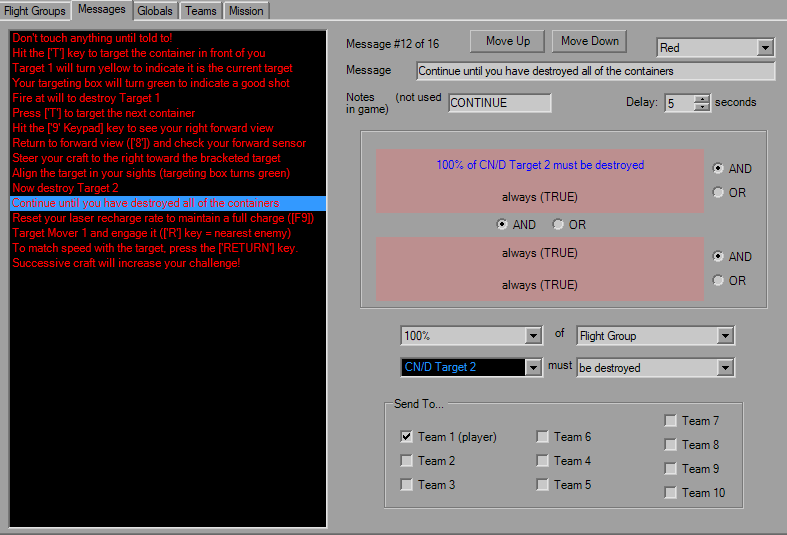
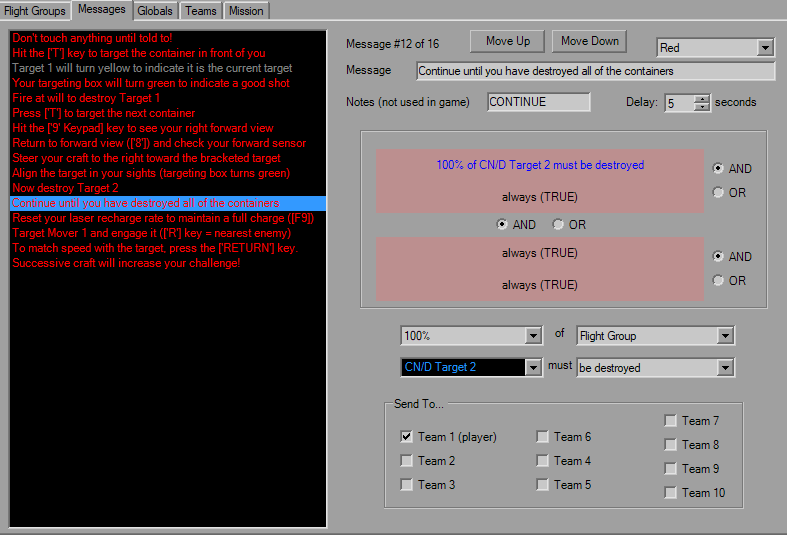
xvt help

Changed region(s): [[0.4269, 0.1495, 0.7624, 0.2093], [0.0, 0.1196, 0.3659, 0.1495]]

diff --git a/help file/pages/XvT/brief.html b/help file/pages/XvT/brief.html
@@ -5,15 +5,16 @@
 </HEAD>
 <BODY>
 <p align=center><big><h2>Briefing Dialog</h2></big></p>
-Opening the Briefing Dialog will bring you to the main Briefing Animation tab.<br>
-<p align=center><img src="../../images/XvT/Brief.png"></p>
-This is the pre-mission briefing animation that plays before you fly. It animates at 20 fps, allows you to write on it, highlight FlightGroups, as well as moving and zooming the map. FlightGroups cannot actually be animated and change position on the map, as their locations and presence are defined in the FG itself<br><br>
+<p>Opening the Briefing Dialog will bring you to the main Briefing Animation tab.</p>
 
-The XvT Briefing dialog behaves the same as TIE, although there is the cosmetic difference on the main display.  All of the events behave exactly the same, and in fact the briefing can be converted from TIE to XvT and reversed simply from copy and pasting.  The only real differences are that Unknown3 has been activated for XvT and there is a possibility of two extra events.<br><br>
+<p align=center><img src="../../images/XvT/Brief.png"></p>
+<p>This is the pre-mission briefing animation that plays before you fly. It animates at 20 fps, allows you to write on it, highlight FlightGroups, as well as moving and zooming the map. FlightGroups cannot actually be animated and change position on the map, as their locations and presence are defined in the FG itself</p>
+
+<p>The XvT Briefing dialog behaves the same as TIE, although there is the cosmetic difference on the main display.  All of the events behave exactly the same, and in fact the briefing can be converted from TIE to XvT and reversed simply from copy and pasting.  The only real differences are that Unknown3 has been activated for XvT and there is a possibility of two extra events.</p>
 
 <p align=center><img src="../../images/XvT/Brief-Teams.png"></p>
-Available since v1.3 is the "Visible to Teams" tab, which is primarily for multiplayer purposes and allows for the editing of all 8 briefings.<br><br>
+<p>Available since v1.3 is the "Visible to Teams" tab, which is primarily for multiplayer purposes and allows for the editing of all 8 briefings.</p>
 
-Remaining information can be viewed on the <a href="../TIE/brief.html">TIE Briefing Dialog</a> page.<br>
+<p>Remaining information can be viewed on the <a href="../TIE/brief.html">TIE Briefing Dialog</a> page.</p>
 </body>
 </html>

diff --git a/help file/pages/XvT/miss.html b/help file/pages/XvT/miss.html
@@ -6,9 +6,10 @@
 <BODY>
 <p align=center><big><h1>Mission Parameters</h1></big></p>
 <p align=center><img src="../../images/XvT/Miss.png"></p>
-The Mission tab sets a couple of other overall settings.  The large text boxes at the top (when available) are the mission texts for before and after the missions.<br><br>
-Below that is the Mission Type, which normally will be "Training".  Set a time limit for the mission if you wish, and below that is the option to toggle the mission between XvT and BoP.<br><br>
-There's some Unknown values that you can play with as well here, a couple of which have now been uncovered.<br><br>
-Former unknowns 0x28 and 0x50 (Unknown4 and 5 in the mission format specs) are part of the BoP IFF names added in 1.7. The former 0x65 (Unk6) is now "Prevent Mission Outcome", which prevents the mission from ending based on goals.
+<p>The Mission tab sets a couple of other overall settings.  The large text boxes at the top (when available) are the mission texts for before and after the missions.</p>
+
+<p>Below that is the Mission Type, which normally will be "Training".  Set a time limit for the mission if you wish, and below that is the option to toggle the mission between XvT and BoP.</p>
+
+<p>Unsure if <i>WinType</i> has a real effect. <i>Goals unimportant</i> prevents the mission from ending based on goals, useful for melees where you want to keep earning points. The <i>randomizer</i> value helps init backdrops and asteroids if you want to fiddle with that. It's imperitive that this value is the same for all players if engaging in multiplayer.</p>
 </body>
 </html>

diff --git a/help file/pages/XvT/team.html b/help file/pages/XvT/team.html
@@ -1,13 +1,15 @@
 <HTML>
 <HEAD>
   <link rel="stylesheet" type="text/css" href="../stylesheet.css" />
-  <title>Team, XvT</title>
+  <title>Teams, XvT</title>
 </HEAD>
 <BODY>
-<p align=center><big><h1>Team</h1></big></p>
+<p align=center><big><h1>Teams</h1></big></p>
 <p align=center><img src="../../images/XvT/team.png"></p>
-The Team tab allows you to set the names, allegiance and end of mission messages for each team.<br><br>
-Team Name is limited to 15 char, EoM Messages to 64 char.<br><br>
-There's really not a whole lot to explain here.  Click the red field to pick a team, change the settings, rejoice.
+<p>The Teams tab allows you to set the names, allegiance and end of mission messages for each team.</p>
+
+<p>Team Name is limited to 15 char, EoM Messages to 64 char.</p>
+
+<p>There's really not a whole lot to explain here.  Click the shaded field to pick a team, change the settings, rejoice.</p>
 </body>
 </html>

diff --git a/XvtForm.Designer.cs b/XvtForm.Designer.cs
@@ -4298,16 +4298,17 @@ namespace Idmr.Yogeme
 			// 
 			// label53
 			// 
-			this.label53.Location = new System.Drawing.Point(344, 72);
+			this.label53.AutoSize = true;
+			this.label53.Location = new System.Drawing.Point(344, 74);
 			this.label53.Name = "label53";
-			this.label53.Size = new System.Drawing.Size(104, 29);
+			this.label53.Size = new System.Drawing.Size(125, 13);
 			this.label53.TabIndex = 21;
-			this.label53.Text = "Notes\r\n(not used in game)";
+			this.label53.Text = "Notes (not used in game)";
 			// 
 			// txtShort
 			// 
 			this.txtShort.Enabled = false;
-			this.txtShort.Location = new System.Drawing.Point(448, 72);
+			this.txtShort.Location = new System.Drawing.Point(487, 71);
 			this.txtShort.MaxLength = 15;
 			this.txtShort.Name = "txtShort";
 			this.txtShort.Size = new System.Drawing.Size(104, 20);
@@ -4463,7 +4464,6 @@ namespace Idmr.Yogeme
 			// 
 			// numGlobalDelay
 			// 
-			this.numGlobalDelay.Enabled = false;
 			this.numGlobalDelay.Increment = new decimal(new int[] {
             5,
             0,
@@ -5101,7 +5101,6 @@ namespace Idmr.Yogeme
 			// 
 			// numEomFailedDelay
 			// 
-			this.numEomFailedDelay.Enabled = false;
 			this.numEomFailedDelay.Increment = new decimal(new int[] {
             5,
             0,
@@ -5200,7 +5199,6 @@ namespace Idmr.Yogeme
 			// 
 			// numEomSecDelay
 			// 
-			this.numEomSecDelay.Enabled = false;
 			this.numEomSecDelay.Increment = new decimal(new int[] {
             5,
             0,
@@ -5299,7 +5297,6 @@ namespace Idmr.Yogeme
 			// 
 			// numEomCompDelay
 			// 
-			this.numEomCompDelay.Enabled = false;
 			this.numEomCompDelay.Increment = new decimal(new int[] {
             5,
             0,

diff --git a/XvtForm.cs b/XvtForm.cs
@@ -2707,8 +2707,11 @@ namespace Idmr.Yogeme
 			cboWarheads.Enabled = !state;
 			cboCounter.Enabled = !state;
 			cboBeam.Enabled = !state;
+			numExplode.Enabled = !state;
 			numCraft.Enabled = !state;
 			numWaves.Enabled = !state;
+			numWavesDelay.Enabled = !state;
+			chkPreventNumbering.Enabled = !state;
 			txtCargo.Enabled = !state;
 			txtSpecCargo.Enabled = !state;
 			numSC.Enabled = !state;
@@ -2730,11 +2733,11 @@ namespace Idmr.Yogeme
 		void refreshStatus()
 		{
 			cboStatus.Items.Clear();
-			bool isMine = (_activeFG.CraftType >= 0x4B && _activeFG.CraftType <= 0x4D);
+			bool isMine = (cboCraft.SelectedIndex >= 0x4B && cboCraft.SelectedIndex <= 0x4D);
 			lblStatus.Text = isMine ? "Mine Formation" : "Status";
 			cboStatus.Items.AddRange(isMine ? Strings.FormationMine : Strings.Status);
 			Common.SafeSetCBO(cboStatus, (isMine ? _activeFG.Status1 & 3 : _activeFG.Status1), true);
-			cboFormation.Enabled = !isMine;
+			cboFormation.Enabled = !isMine && cboCraft.SelectedIndex != 0x57;	// and not planet
 		}
 		void setSpecialVisibility()
 		{
@@ -3615,6 +3618,7 @@ namespace Idmr.Yogeme
 			txtGlobalFail.Visible = (g < (int)Globals.GoalIndex.Prevent);
 			txtGlobalInc.Visible = (g < (int)Globals.GoalIndex.Secondary);
 			labelRefresh(_activeGGTrigger.GoalTrigger, lblGlobTrig[_activeGlobalTriggerIndex]);
+			numGlobalDelay.Value = _activeGlobalGoal.Delay * 5;
 			_loading = btemp;
 		}
 		void lblGlobTrigArr_DoubleClick(object sender, EventArgs e) => menuPaste_Click("Glob", new EventArgs());
